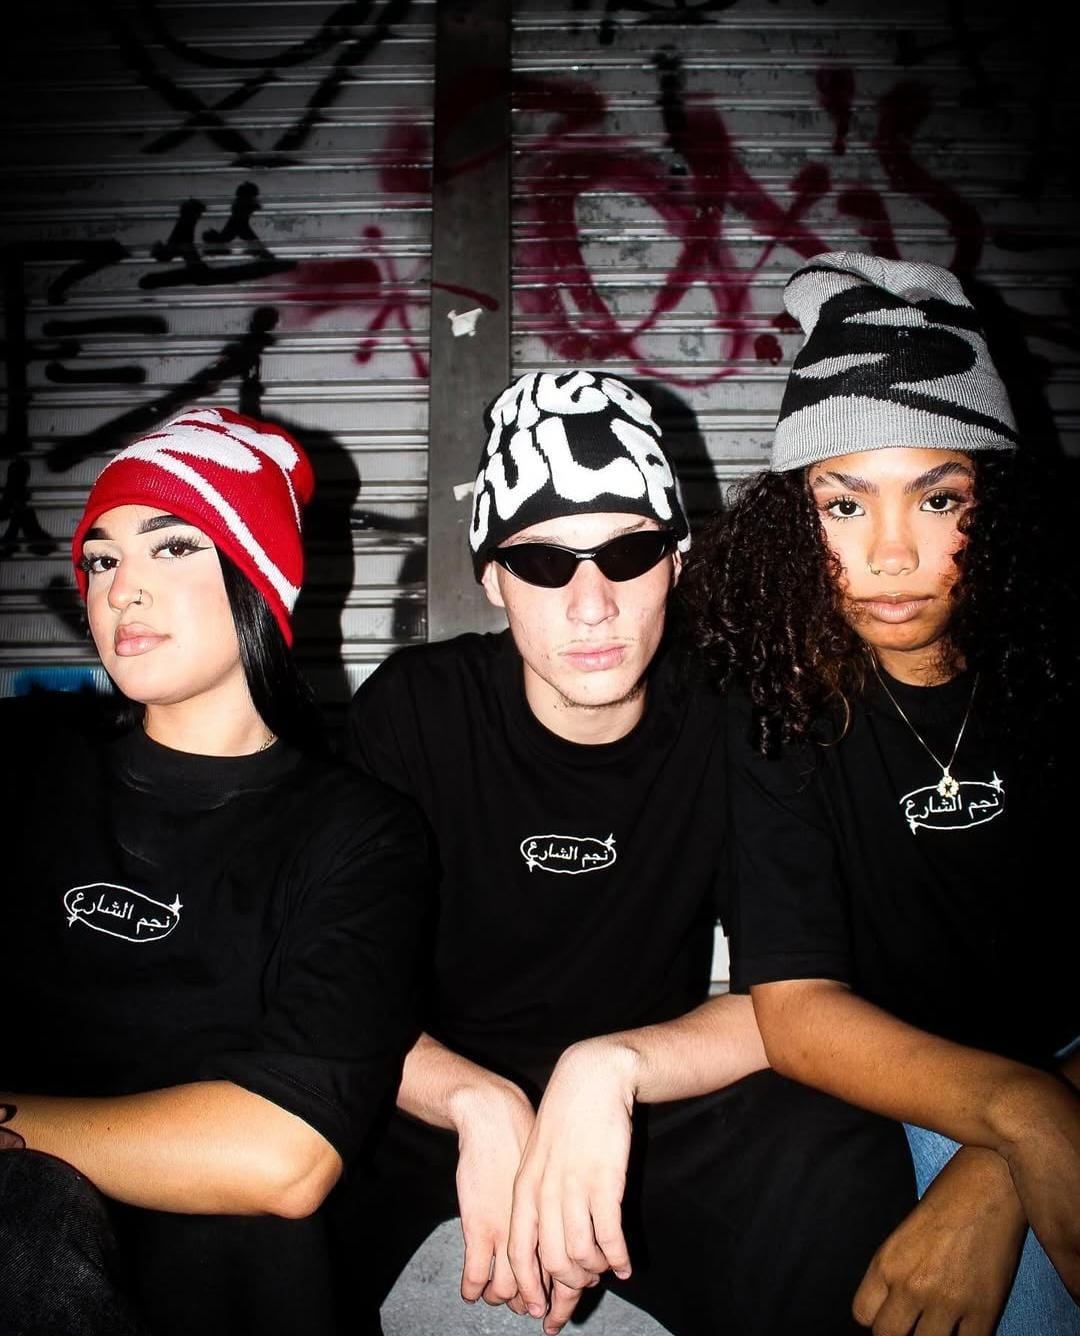
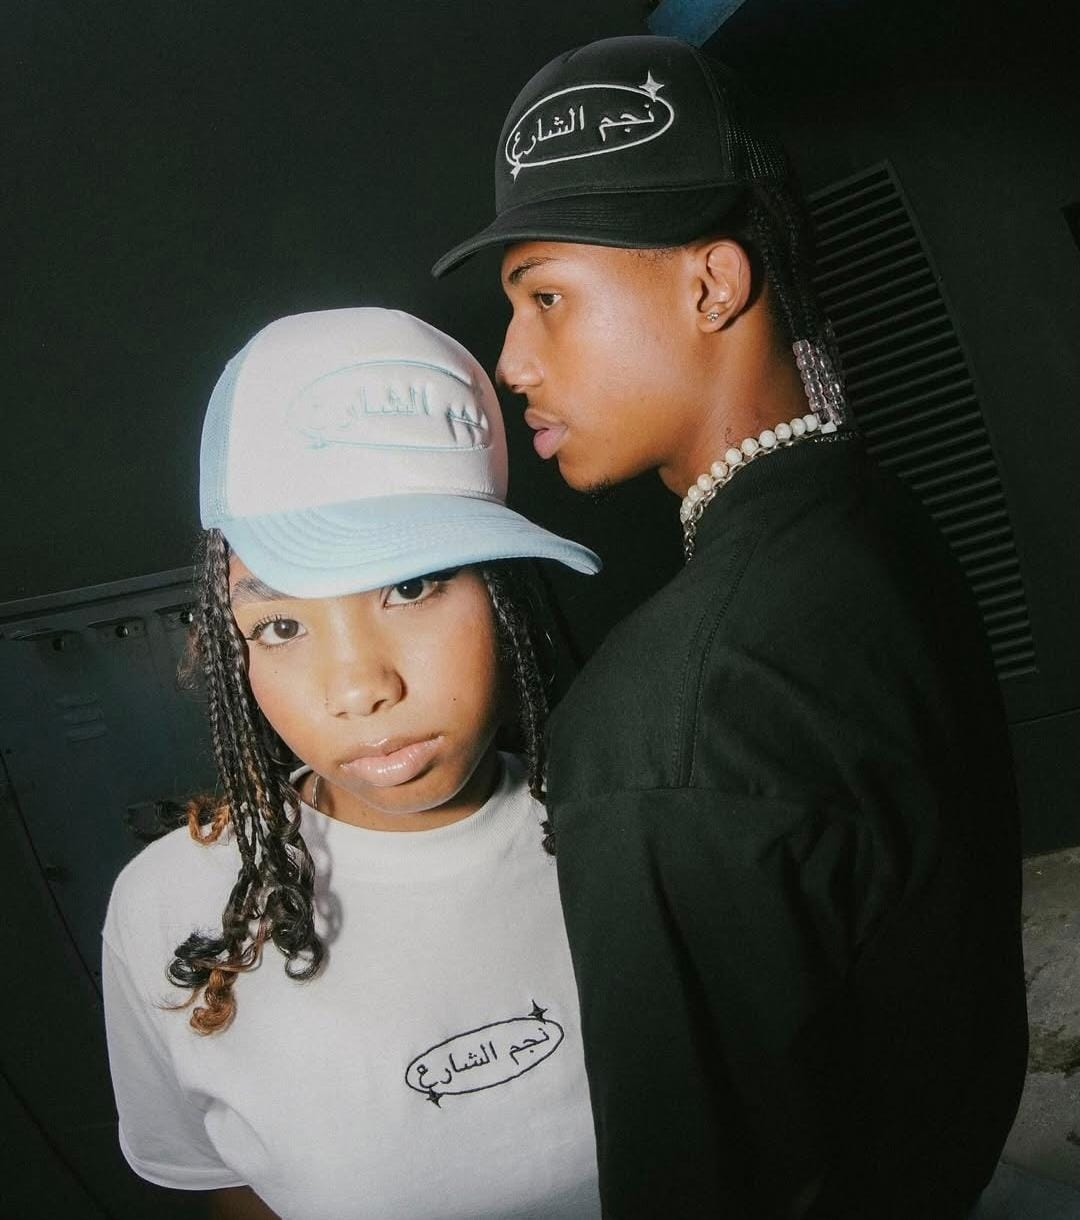
Alterações de SEO e melhoria de textos para conversão + adição de nova sessão

diff --git a/src/components/Shop.jsx b/src/components/Shop.jsx
@@ -1,0 +1,62 @@
+import { motion } from 'framer-motion'
+import look1 from '../assets/images/shop-1.jpg'
+import look2 from '../assets/images/shop-2.jpg'
+import look3 from '../assets/images/shop-3.jpg'
+import look4 from '../assets/images/shop-4.jpg'
+
+export default function Shop() {
+  return (
+    <section
+      id="shop"
+      className="relative py-20 sm:py-28 px-6 bg-gradient-to-b from-zinc-900 via-zinc-800 to-black-900 text-center"
+    >
+      <motion.div
+        initial={{ opacity: 0, y: 40 }}
+        whileInView={{ opacity: 1, y: 0 }}
+        transition={{ duration: 0.8, ease: 'easeOut' }}
+        viewport={{ once: true }}
+        className="max-w-3xl mx-auto"
+      >
+        <h2 className="text-3xl sm:text-4xl font-display mb-4">
+          Loja Street Stars
+        </h2>
+        
+        <div className="grid grid-cols-2 gap-4 sm:gap-6 my-10">
+            {[look1, look2, look3, look4].map((img, i) => (
+                <div
+                    key={i}
+                    className="relative aspect-[3/2] overflow-hidden rounded-xl border border-white/10"
+                >
+                <img
+                    src={img}
+                    alt="Street Stars — coleção urbana"
+                    loading="lazy"
+                    width="400"
+                    height="400"
+                    className="w-full h-full object-cover transition-transform duration-500 hover:scale-105"
+                />
+            </div>
+            ))}
+        </div>
+
+        <p className="text-white/70 mb-8">
+          Se torne uma estrela das ruas com Street Stars. <br />
+          Plataforma segura, pagamento protegido e entrega para todo o Brasil.
+        </p>
+
+        <a
+          href="https://streetstars.myshopify.com"
+          target="_blank"
+          rel="noopener noreferqrer"
+          className="inline-flex items-center justify-center px-10 py-4 border-2 border-white text-white font-semibold rounded-md hover:bg-white hover:text-black hover:scale-[1.03] active:scale-95 transition-all duration-300"
+        >
+          Ir para a loja
+        </a>
+
+        <p className="text-xs text-white/40 mt-4">
+          Loja oficial ★ Pagamento seguro ★ Envio nacional
+        </p>
+      </motion.div>
+    </section>
+  )
+}

diff --git a/src/components/Hero.jsx b/src/components/Hero.jsx
@@ -60,22 +60,25 @@ export default function Hero() {
         </motion.p>
 
         <motion.h1 variants={text} className="text-3xl sm:text-4xl md:text-6xl lg:text-7xl font-display font-bold mb-8">
-          Estrelas nascem <br /> nas ruas
+          Estilo que nasce <br /> nas ruas
         </motion.h1>
 
         <motion.p variants={text} className="text-sm sm:text-base md:text-lg text-white/80 max-w-2xl mx-auto mb-10 leading-relaxed">
           A Street Stars nasce da rua, da cultura urbana e da expressão individual. <br/>
-          Mais do que roupas, criamos identidade.
+          Mais do que moda, criamos estrelas.
         </motion.p>
 
-        <motion.div variants={text}>
-          <button
-            aria-label='Conhecer coleções'
-            onClick={() => scrollToSection('#collections')}
-            className="w-full sm:w-auto px-8 py-4 text-center border-2 border-white text-white font-semibold rounded-md hover:bg-white hover:text-black hover:scale-[1.03] active:scale-95 duration-300 transition-all"
+        <motion.div variants={text} className="flex flex-col items-center gap-2">
+          <a
+            href="https://streetstars.myshopify.com"
+            target="_blank"
+            rel="noopener noreferrer"
+            aria-label='Ir para loja da Street Stars'
+            className="sm:w-auto px-8 py-4 text-center border-2 border-white text-white font-semibold rounded-md hover:bg-white hover:text-black hover:scale-[1.03] active:scale-95 duration-300 transition-all"
           >
-            Ver drops disponíveis
-          </button>
+            Acessar loja oficial
+          </a>
+
         </motion.div>
       </motion.div>
     </section>

diff --git a/src/App.jsx b/src/App.jsx
@@ -1,11 +1,13 @@
-import { lazy, Suspense } from 'react'
+import { lazy } from 'react'
+
 
 import Header from './components/Header'
 import Hero from './components/Hero'
-import About from './components/About'
-import Collections from './components/Collections'
-import Manifesto from './components/Manifesto'
-import Contact from './components/Contact'
+const Shop = lazy(() => import('./components/Shop'))
+const About = lazy(() => import('./components/About'))
+const Collections = lazy(() => import('./components/Collections'))
+const Manifesto = lazy(() => import('./components/Manifesto'))
+const Contact = lazy(() => import('./components/Contact'))
 import Footer from './components/Footer'
 import './index.css'
 
@@ -18,6 +20,7 @@ export default function App() {
 
       <main id="main-content">
         <Hero />
+        <Shop />
         <About />
         <Collections />
         <Manifesto />

diff --git a/index.html b/index.html
@@ -4,7 +4,7 @@
     <meta charset="UTF-8" />
     <meta name="viewport" content="width=device-width, initial-scale=1.0" />
     <title>Street Stars</title>
-    <meta name="description" content="Street Stars é uma marca de moda urbana que nasce da rua, da cultura e da expressão individual. Descubra coleções exclusivas e identidade real." />
+    <meta name="description" content="Street Stars é uma marca de moda streetwear que nasce da rua, da cultura e da expressão individual. Conheça a loja oficial." />
     <meta name="keywords" content="streetwear, moda urbana, street stars, roupas street, moda, cultura, identidade" />
     <meta name="author" content="Street Stars" />
     <meta property="og:title" content="Street Stars — Estrelas nascem nas ruas" />

diff --git a/src/components/Header.jsx b/src/components/Header.jsx
@@ -50,11 +50,11 @@ export default function Header() {
 
 
   const links = [
+    { label: 'Onde comprar', href: '#shop' },
     { label: 'Sobre', href: '#about' },
     { label: 'Coleções', href: '#collections' },
     { label: 'Manifesto', href: '#manifesto' },
     { label: 'Contato', href: '#contact' },
-    { label: 'Shop', href: '#shop' },
 ]
 
 useEffect(() => {

diff --git a/src/components/Manifesto.jsx b/src/components/Manifesto.jsx
@@ -77,6 +77,7 @@ export default function Manifesto() {
 
         </motion.div>
 
+        
       </motion.div>
     </section>
   )
